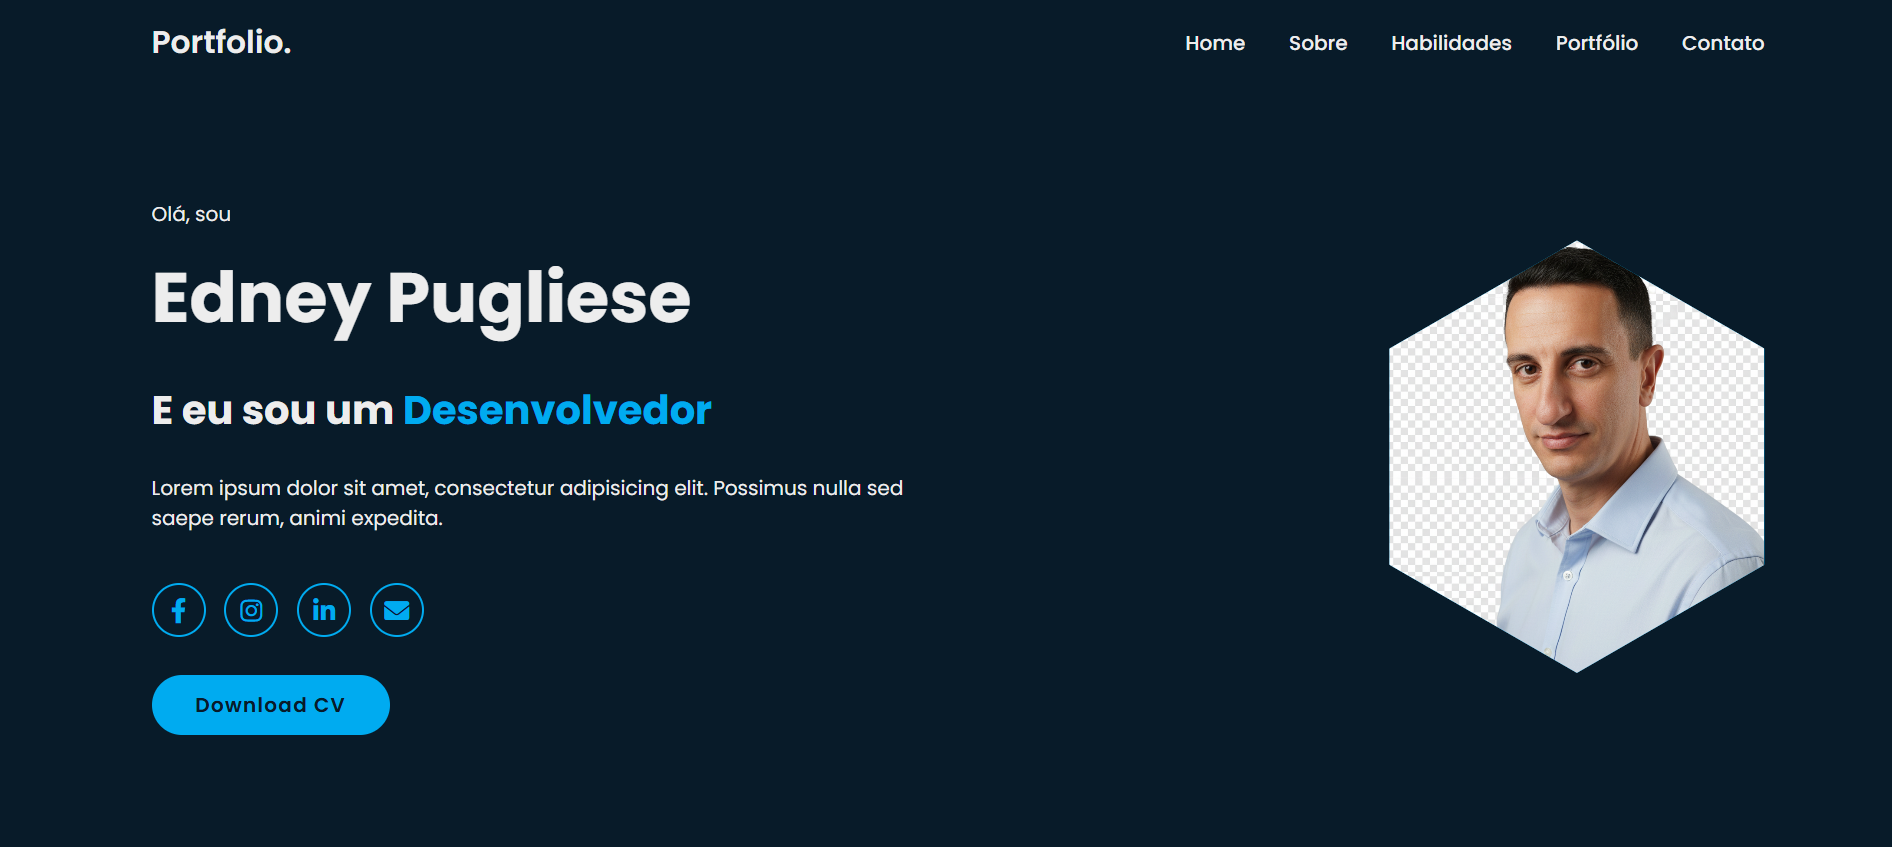
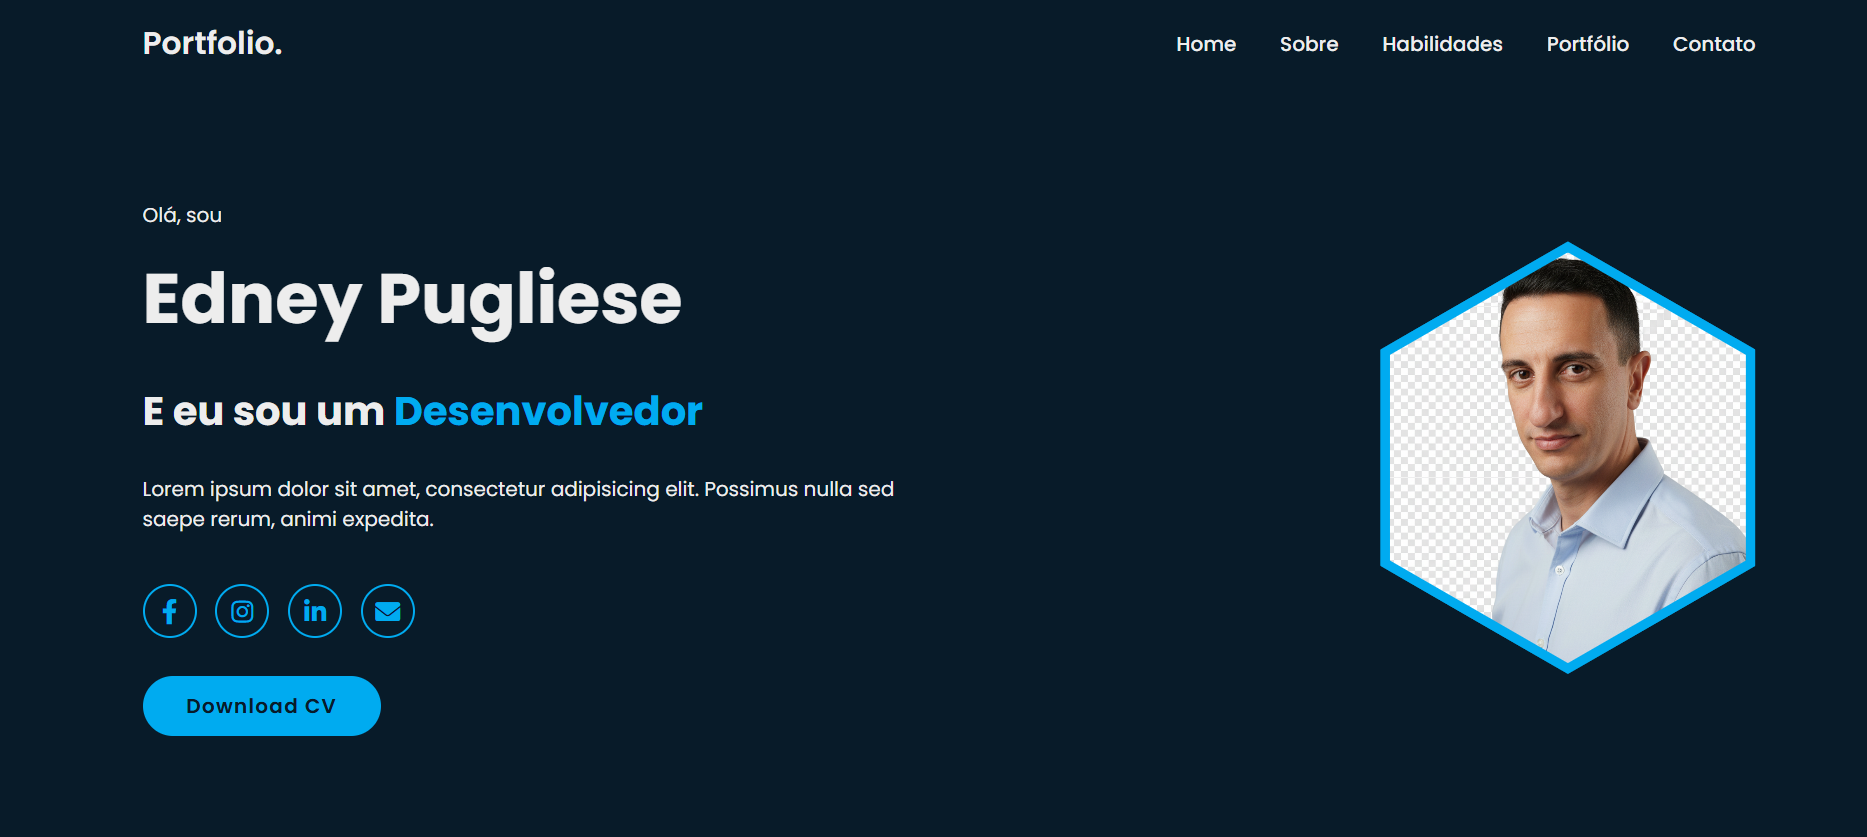
Corrige o fundo transparente da imagem do perfil

diff --git a/style.css b/style.css
@@ -153,13 +153,16 @@ nav ul li a:hover, nav ul li a.active {
     z-index: -1;
 }
 
-.hexagon img {
+.hexagon-image {
     position: absolute;
     top: 50%;
     left: 50%;
     transform: translate(-50%, -50%);
     width: 95%;
     height: 95%;
-    object-fit: cover;
+    background-color: #081b29;
+    background-image: url('base/Edy_capa.png');
+    background-size: cover;
+    background-position: center;
     clip-path: polygon(50% 0%, 100% 25%, 100% 75%, 50% 100%, 0% 75%, 0% 25%);
 }

diff --git a/index.html b/index.html
@@ -35,7 +35,7 @@
         <section class="image-content">
             <div class="hexagon-wrapper">
                 <div class="hexagon">
-                    <img src="base/Edy_capa.png" alt="Edney Pugliese">
+                    <div class="hexagon-image"></div>
                 </div>
             </div>
         </section>
